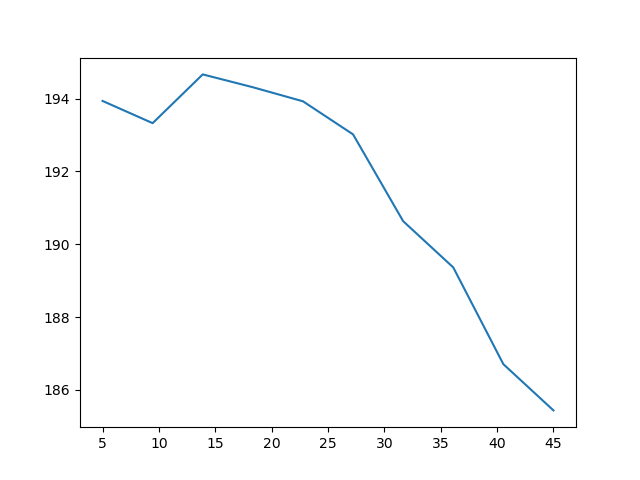
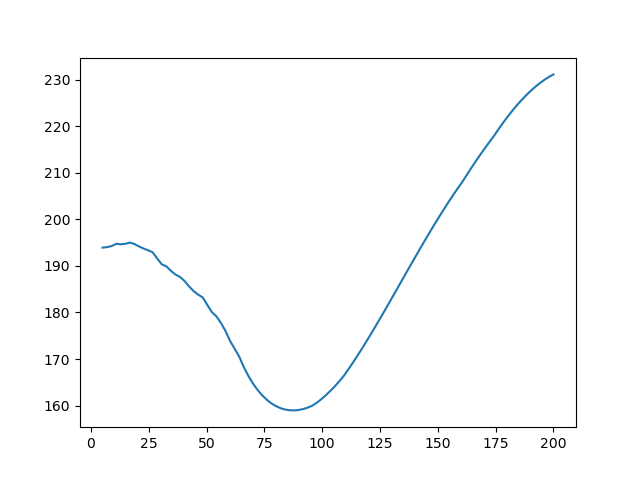
pair coupling test

diff --git a/multistack/multifunction.py b/multistack/multifunction.py
@@ -10,8 +10,8 @@ wvls = [[500, "plots/multistack500.mp4"],
         [550, "plots/multistack550.mp4"], 
         [560, "plots/multistack560.mp4"]]
 
-def multi(wvl, source_dist, filename):
-    cell = mp.Vector3(1000, 1000, 0)
+def multi(wvl, source_dist, filename, emptyspace = False):
+    cell = mp.Vector3(1000, 600, 0)
 
     #all nm
     freq = 1/wvl
@@ -71,9 +71,9 @@ def multi(wvl, source_dist, filename):
         ]
 
     geometry = []
-
-    for i in range(0, 3, 1):
-        geometry.extend(createLayer(0, i))
+    if not emptyspace:
+        for i in range(0, 3, 1):
+            geometry.extend(createLayer(0, i))
 
     # geometry = []
 
@@ -87,7 +87,8 @@ def multi(wvl, source_dist, filename):
         )
     ]
 
-    pml_layers = [mp.PML(200)]
+    pml_thickness = 200
+    pml_layers = [mp.PML(pml_thickness)]
 
 
     resolution = 1
@@ -104,16 +105,34 @@ def multi(wvl, source_dist, filename):
     dna_length = 2.1#7.3
 
     #Find flux around emitter
-    total_flux = mp.FluxRegion(center=source_pos, size=mp.Vector3(2 * dna_length, 2 * dna_length), weight = -1.0)
+    total_flux = sim.add_flux(freq, 0, 1,
+                              mp.FluxRegion(mp.Vector3(y = cell.y / 2 - pml_thickness), size = mp.Vector3(x = cell.x - 2 * pml_thickness)),
+                              mp.FluxRegion(mp.Vector3(y = cell.y / 2 - pml_thickness), size = mp.Vector3(x = cell.x - 2 * pml_thickness), weight = -1),
+                              mp.FluxRegion(mp.Vector3(x = cell.x / 2 - pml_thickness), size = mp.Vector3(y = cell.y - 2 * pml_thickness)),
+                              mp.FluxRegion(mp.Vector3(x = cell.x / 2 - pml_thickness), size = mp.Vector3(y = cell.y - 2 * pml_thickness), weight = -1))
 
     acceptor_box = sim.add_flux(freq, 0, 1,        
                 mp.FluxRegion(source_pos + mp.Vector3(y = dna_length), size=mp.Vector3(2 * dna_length)),
                 mp.FluxRegion(source_pos + mp.Vector3(y = -dna_length), size=mp.Vector3(2 * dna_length), weight=-1),
                 mp.FluxRegion(source_pos + mp.Vector3(dna_length), size=mp.Vector3(y=2 * dna_length)),
                 mp.FluxRegion(source_pos + mp.Vector3(-dna_length), size=mp.Vector3(y=2 * dna_length), weight=-1))
-
-    ez_data = []
     
-    sim.run(until_after_sources=mp.stop_when_fields_decayed(1, mp.Ez, source_pos + mp.Vector3(dna_length), 1e-8))
     
-    return mp.get_fluxes(acceptor_box)
+    def func(pos, efield):
+        return efield
+    
+    nETR_values = []
+    
+    def record_fields(sim):
+    
+        nETR = sim.integrate_field_function([mp.Ez], func, 
+                                        where = mp.Volume(source_pos  + mp.Vector3(dna_length),
+                                                          size = mp.Vector3(1, 1, mp.inf),
+                                                          is_cylindrical=True))
+        nETR_values.append(nETR)
+        
+    
+    sim.run(mp.at_every(0.1, record_fields)
+        ,until_after_sources=mp.stop_when_fields_decayed(1, mp.Ez, source_pos + mp.Vector3(dna_length), 1e-8))
+    
+    return sum(nETR_values)# mp.get_fluxes(acceptor_box), mp.get_fluxes(total_flux)

diff --git a/multistack/main.py b/multistack/main.py
@@ -2,17 +2,46 @@ import numpy as np
 import multifunction
 import matplotlib.pyplot as plt
 
+import contextlib
+import io
+import sys
+
+@contextlib.contextmanager
+def nostdout():
+    save_stdout = sys.stdout
+    sys.stdout = io.StringIO()
+    yield
+    sys.stdout = save_stdout
+
 def main():
-    distances = np.linspace(5, 45, 10)
-    fluxes = []
+    distances = np.linspace(5, 100, 100)
+    total_fluxes = []
+    radiative_fluxes = []
     for dist in distances:
-        fluxes.append(multifunction.multi(532, dist, ""))
+        
+        print(dist)
+        
+        with nostdout():
+            total = np.abs(multifunction.multi(532, dist, ""))
+            
+        total_fluxes.append(total)
     
-    np.save("fluxes.npy", fluxes)
+    baseline_total= multifunction.multi(532, 0, "", True)
+    
+    total_fluxes = total_fluxes / np.abs(baseline_total)
+    
+    # np.save("baseline_total_rad.npy", [baseline_total, baseline_rad])
+    
+    np.save("total_fluxes.npy", total_fluxes)
     
     fig, ax = plt.subplots()
-    ax.plot(distances, fluxes)
-    fig.savefig("fluxplot.png")
+    ax.plot(distances, total_fluxes)
+    fig.savefig("single_eplot.png")
+    
+    # nonradiative_enhancement = total_fluxes - radiative_fluxes / (baseline_total - baseline_rad)
+    # fig, ax = plt.subplots()
+    # ax.plot(distances, nonradiative_enhancement)
+    # fig.savefig("nonradiative_fluxplot.png")
     
 if __name__ == "__main__":
     main()

diff --git a/multistack/multistack.py b/multistack/multistack.py
@@ -166,5 +166,5 @@ print(mp.get_fluxes(acceptor_box))
 #Baseline 7.3 = 56.34635510923425
 #Baseline 2.1 = 82.93935471195395
 
-filename = "plots/multistack.mp4"
+filename = "plots/multistackrb.mp4"
 Animate.to_mp4(10, filename)
